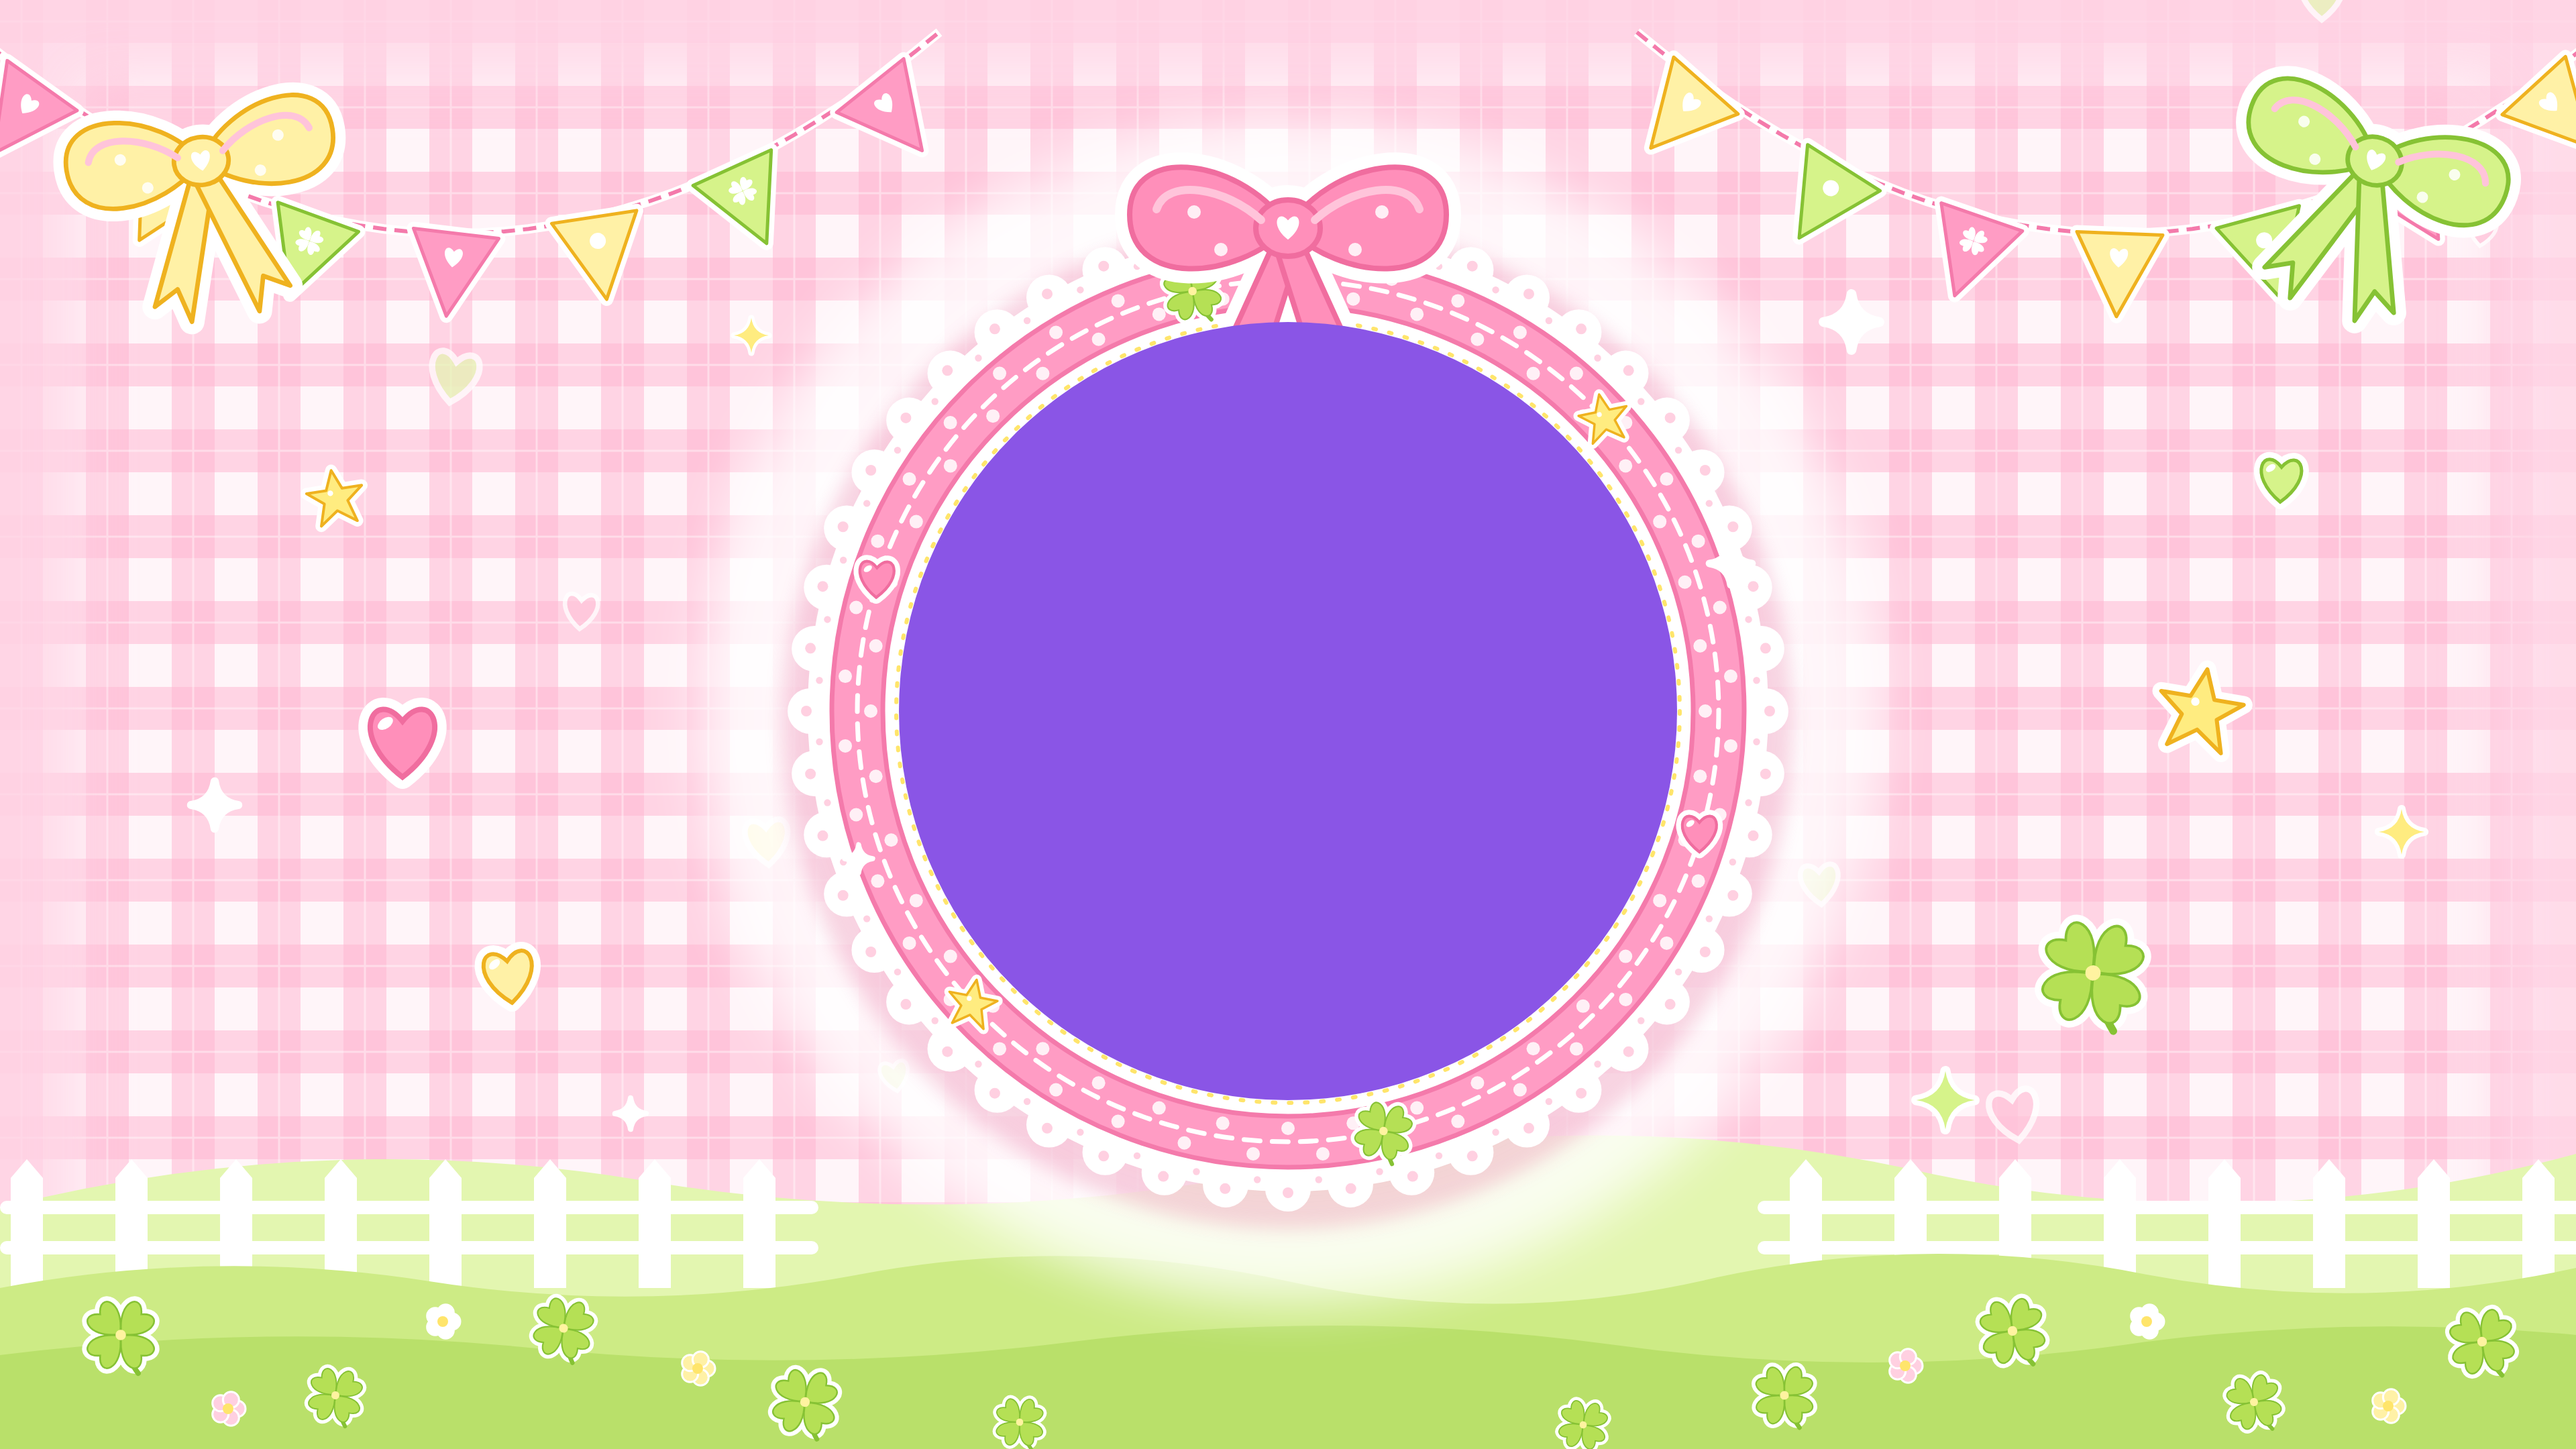
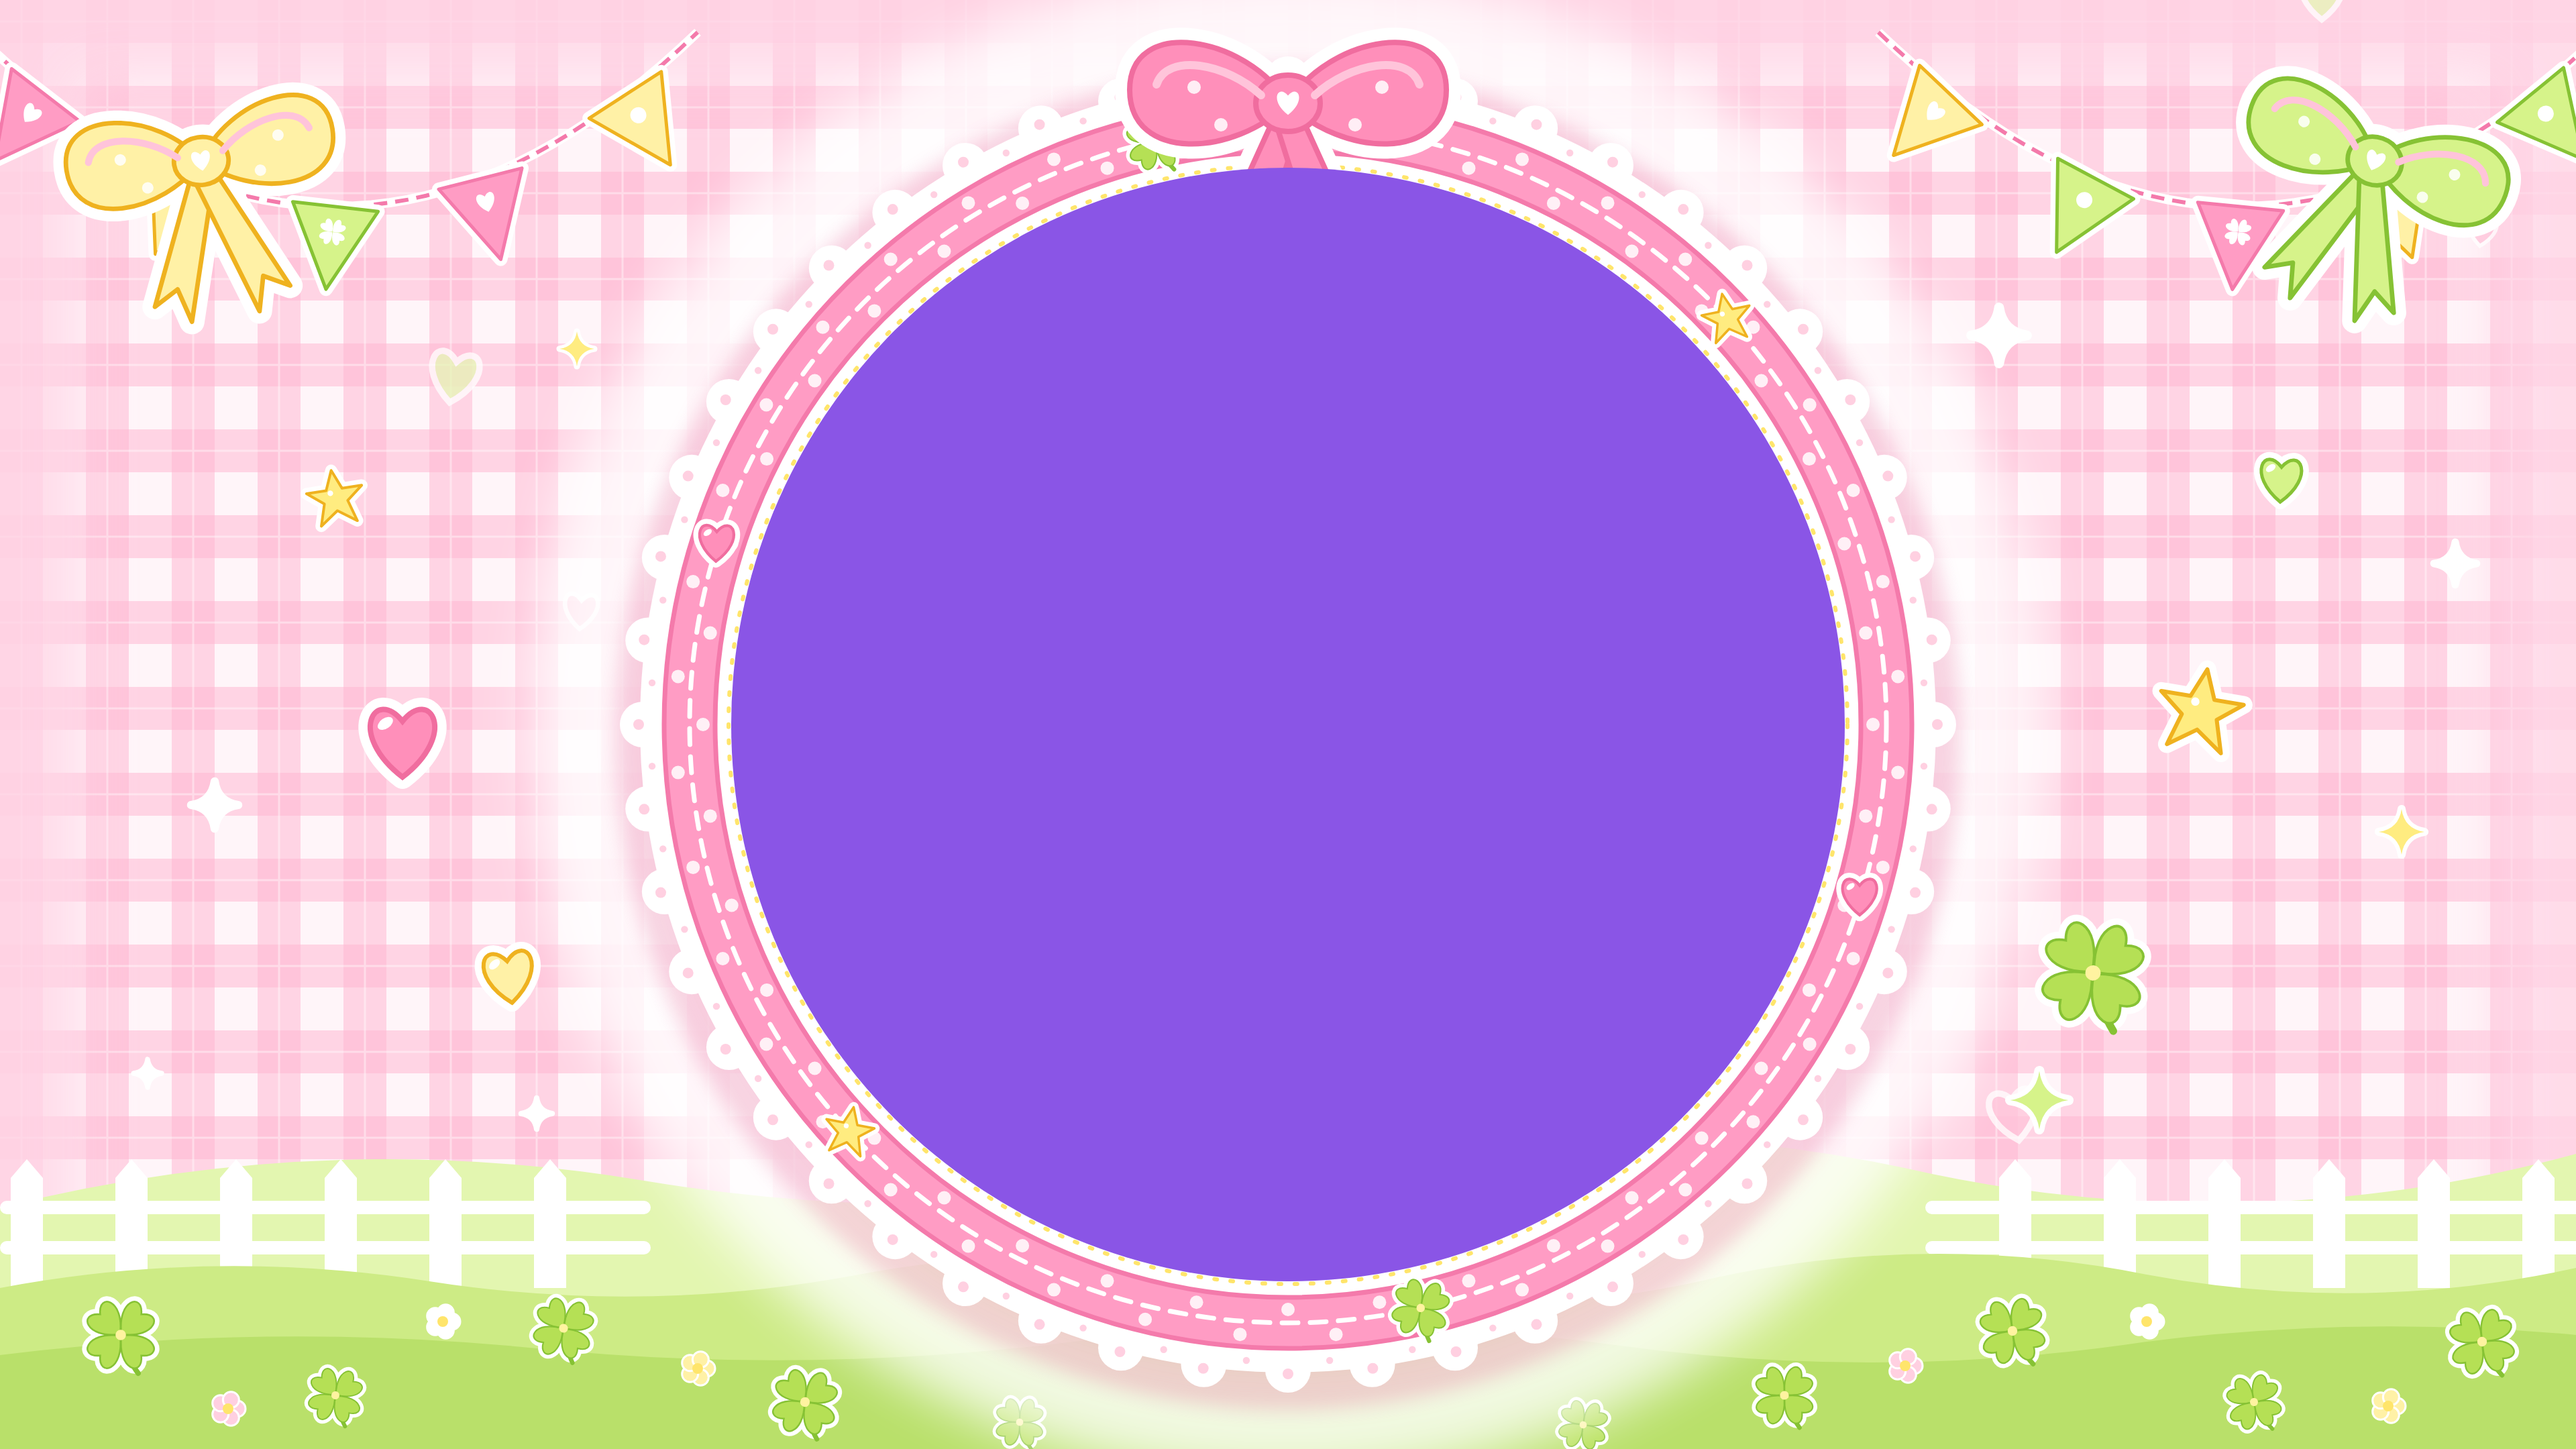
Enlarge round window in 16:9 frame
Claude-Session: https://claude.ai/code/session_015yANGipbWR5ngxj5MVJ67m

diff --git a/frame16x9.html b/frame16x9.html
@@ -32,7 +32,7 @@
 <script>
 const NS='http://www.w3.org/2000/svg';
 const el=(tag,attrs,parent)=>{const e=document.createElementNS(NS,tag);for(const k in attrs)e.setAttribute(k,attrs[k]);if(parent)parent.appendChild(e);return e;};
-const W=1920,H=1080, CX=960, CY=530, R=290;
+const W=1920,H=1080, CX=960, CY=540, R=415;
 const LOOP=8, TAU=Math.PI*2;
 const root=document.getElementById('root');
 const holeC=document.getElementById('holeC');holeC.setAttribute('cx',CX);holeC.setAttribute('cy',CY);holeC.setAttribute('r',R);
@@ -113,8 +113,8 @@ function swag(x0,x1,sag,n,off){
   else el('use',{href:'#clover',fill:'#fff',transform:'translate(0 19) scale(.5)'},g);
   const ang=Math.atan2(sag*4*(1-2*s),(x1-x0))*180/Math.PI;
   flags.push({g,x,y,ang,ph:i*0.6+off});}}
-swag(-20,700,150,7,0);
-swag(1220,1940,150,7,1);
+swag(-20,520,130,5,0);
+swag(1400,1940,130,5,1);
 
 // ---- 真ん中の丸窓 ----
 const win=el('g',{},root);
@@ -147,7 +147,7 @@ const cornerL=bowC(0.85,'#fff1a6','#efb21f'), cornerR=bowC(0.85,'#d6f38a','#86c2
 root.appendChild(cornerL);root.appendChild(cornerR);
 const sideBits=[[heartC('#ff8fba','#f06d9f',1.6),300,560],[starC(1.2),1640,520],[cloverC(1.9),1560,720],[heartC('#fff1a6','#efb21f',1.2),380,740],[starC(0.8),250,380],[heartC('#d6f38a','#86c234',1.0),1700,360]]
  .map(([g,x,y],i)=>{root.appendChild(g);return {g,x,y,ph:i*1.3};});
-const sparks=[[560,250,'#ffec80',1.3],[1380,240,'#fff',1.1],[1450,820,'#d6f38a',1.2],[470,830,'#fff',1.0],[160,600,'#fff',0.9],[1790,620,'#ffec80',1.0],[640,640,'#fff',0.8],[1290,420,'#fff',0.8]]
+const sparks=[[430,260,'#ffec80',1.3],[1490,250,'#fff',1.1],[1520,820,'#d6f38a',1.2],[400,830,'#fff',1.0],[160,600,'#fff',0.9],[1790,620,'#ffec80',1.0],[110,800,'#fff',0.8],[1830,420,'#fff',0.8]]
  .map(([x,y,f,s],i)=>{const g=el('g',{},root);
    el('use',{href:'#sparkP',fill:'#fff',stroke:'#fff','stroke-width':7,'stroke-linejoin':'round'},g);
    el('use',{href:'#sparkP',fill:f},g);return {g,x,y,s,ph:i*1.1};});
@@ -168,7 +168,7 @@ window.render=function(t){
  inner.setAttribute('stroke-dashoffset',u*12*15);
  orbit.forEach(o=>{const a=o.a0+u*TAU/3;
    o.g.setAttribute('transform',`translate(${CX+(R+31)*Math.cos(a)} ${CY+(R+31)*Math.sin(a)}) rotate(${12*Math.sin(TAU*u*4+o.ph)})`);});
- topBow.setAttribute('transform',`translate(${CX} ${CY-R-70+4*S(2)}) rotate(${6*S(2)}) scale(${1+0.03*S(4)})`);
+ topBow.setAttribute('transform',`translate(${CX} ${CY-R-48+4*S(2)}) rotate(${6*S(2)}) scale(${1+0.03*S(4)})`);
  cornerL.setAttribute('transform',`translate(150 120) rotate(${-14+6*Math.sin(TAU*u*2+1)}) scale(.85)`);
  cornerR.setAttribute('transform',`translate(1770 120) rotate(${14+6*Math.sin(TAU*u*2+2)}) scale(.85)`);
  sideBits.forEach(o=>o.g.setAttribute('transform',`translate(${o.x} ${o.y+10*Math.sin(TAU*u*2+o.ph)}) rotate(${10*Math.sin(TAU*u+o.ph)})`));
